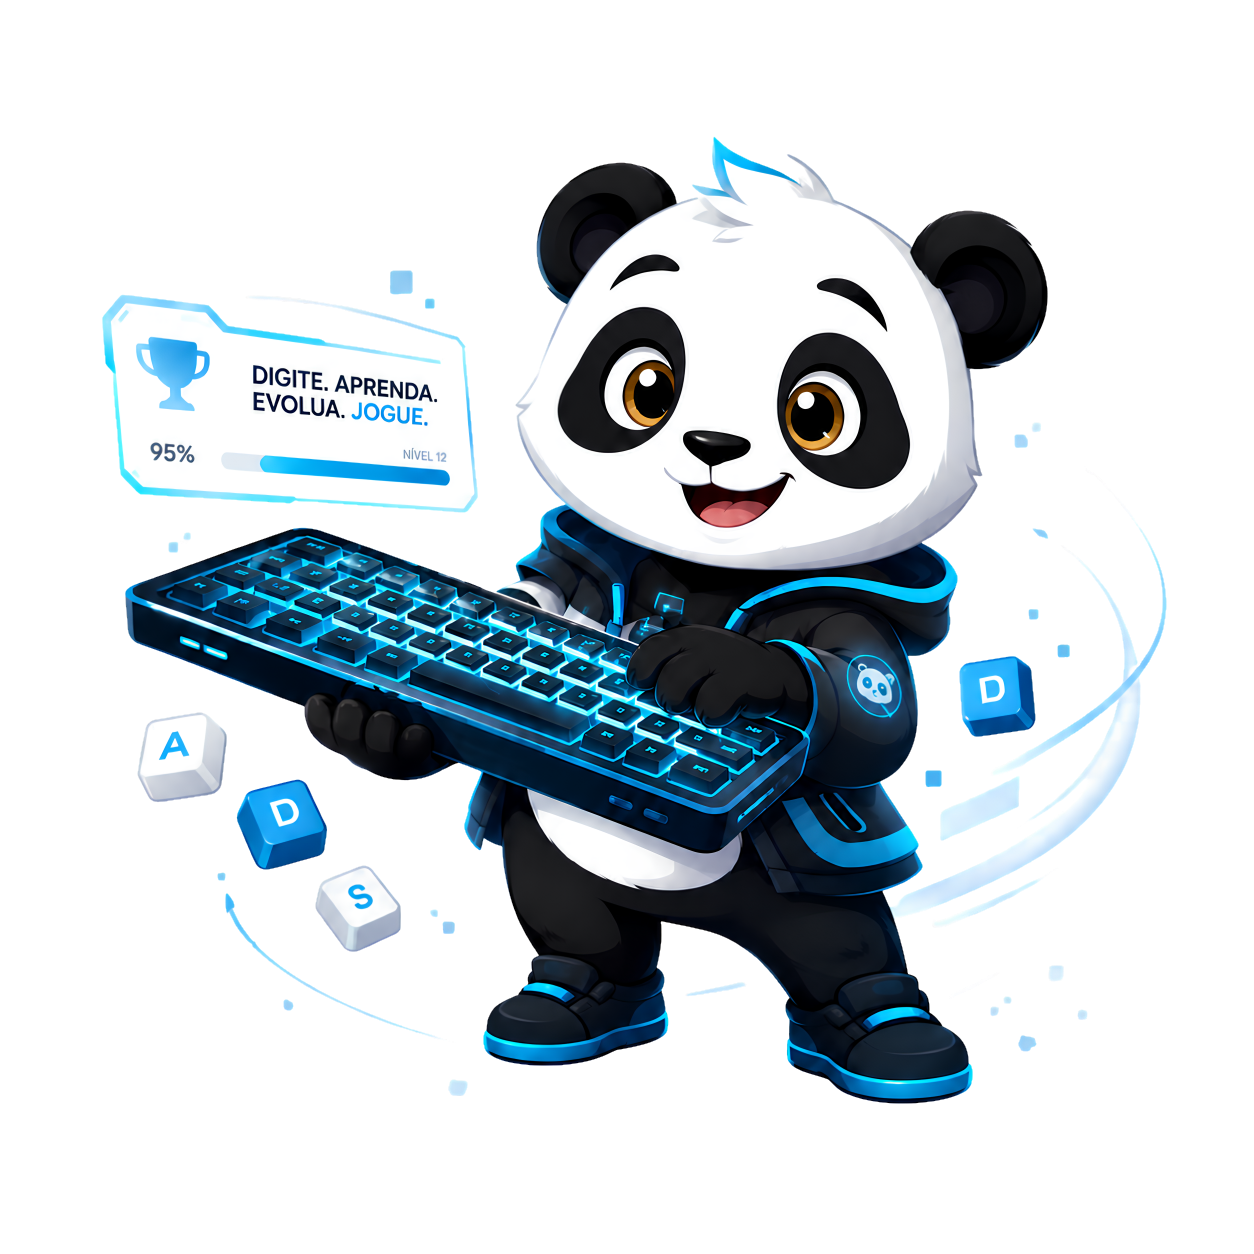
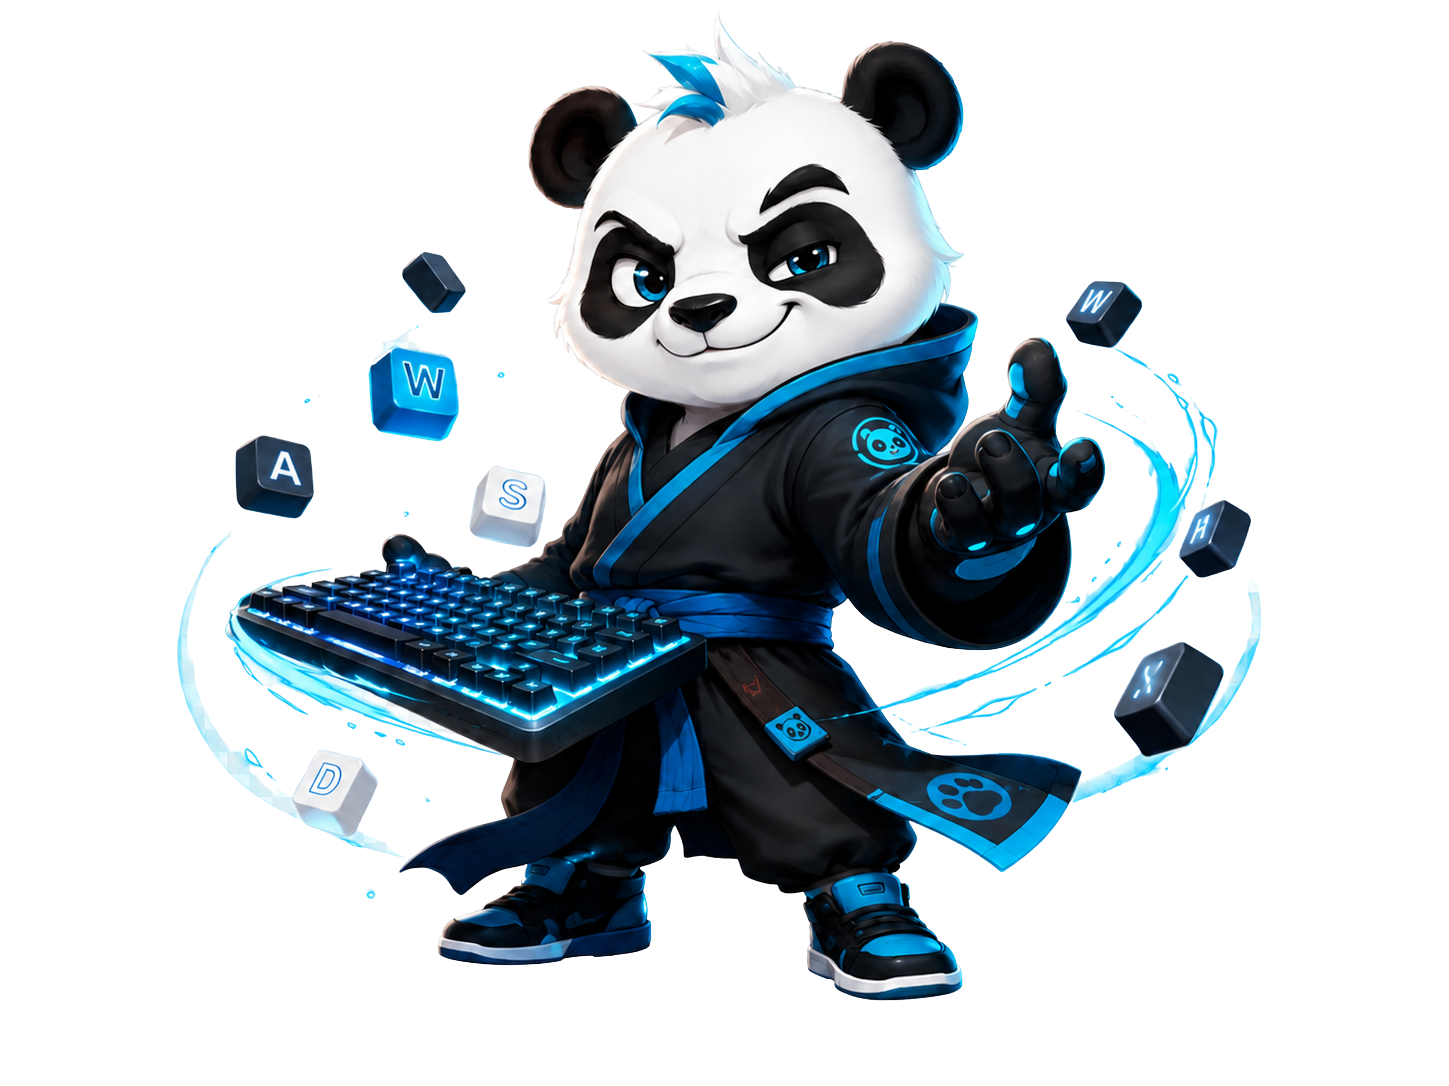
refactor: improve panda visual hierarchy on home and learn pages

diff --git a/panda-dojo-v2/src/pages/HomePage/HomePage.module.css b/panda-dojo-v2/src/pages/HomePage/HomePage.module.css
@@ -68,45 +68,54 @@
 
 .pandaCard {
   position: relative;
-  display: flex;
-  align-items: center;
-  min-height: 360px;
+  display: block;
+  min-height: clamp(420px, 38vw, 520px);
   overflow: hidden;
-  padding: var(--dojo-space-6);
+  padding: clamp(20px, 3vw, 32px);
   border: 1px solid var(--dojo-border-strong);
   border-radius: var(--dojo-radius-lg);
   background:
-    radial-gradient(circle at 82% 10%, rgba(124, 92, 255, 0.2), transparent 40%),
-    radial-gradient(circle at 14% 12%, rgba(20, 184, 212, 0.18), transparent 36%),
+    radial-gradient(circle at 68% 18%, rgba(124, 92, 255, 0.24), transparent 42%),
+    radial-gradient(circle at 28% 12%, rgba(20, 184, 212, 0.2), transparent 38%),
+    radial-gradient(ellipse at 74% 100%, rgba(217, 154, 23, 0.16), transparent 44%),
     var(--dojo-card-bg);
   box-shadow: var(--dojo-shadow-card);
 }
 
-/* Panda como personagem de apoio à direita, atrás do painel mas sem cobri-lo. */
+/* Panda como protagonista visual; o painel do jogador fica como apoio sobreposto. */
 .pandaImg {
   position: absolute;
-  right: 0;
-  bottom: 0;
+  right: clamp(-72px, -5vw, -28px);
+  bottom: clamp(-18px, -1.5vw, -8px);
   z-index: 0;
-  width: min(46%, 280px);
-  filter: drop-shadow(0 22px 24px rgba(11, 57, 84, 0.26));
+  width: min(88%, 560px);
+  max-height: 108%;
+  object-fit: contain;
+  filter:
+    drop-shadow(0 28px 32px rgba(11, 57, 84, 0.28))
+    drop-shadow(0 0 28px rgba(20, 184, 212, 0.16));
   pointer-events: none;
   user-select: none;
 }
 
 .pandaStatus {
-  position: relative;
+  position: absolute;
+  top: clamp(18px, 2.5vw, 30px);
+  left: clamp(18px, 2.5vw, 30px);
   z-index: 1;
   display: flex;
-  width: min(58%, 300px);
+  width: min(44%, 230px);
   flex-direction: column;
   align-items: flex-start;
-  gap: var(--dojo-space-3);
-  padding: var(--dojo-space-5);
+  gap: var(--dojo-space-2);
+  padding: clamp(14px, 2vw, 18px);
   border: 1px solid var(--dojo-border);
   border-radius: var(--dojo-radius-md);
-  background: color-mix(in srgb, var(--dojo-card-bg) 84%, transparent);
+  background: color-mix(in srgb, var(--dojo-card-bg) 76%, transparent);
   backdrop-filter: blur(12px);
+  box-shadow:
+    0 18px 42px rgba(11, 57, 84, 0.16),
+    inset 0 1px 0 rgba(255, 255, 255, 0.22);
 }
 
 .playerKicker {
@@ -121,7 +130,7 @@
 .pandaStatus .playerLevel {
   color: var(--dojo-text-strong);
   font-family: var(--font-title);
-  font-size: 1.9rem;
+  font-size: clamp(1.25rem, 2.2vw, 1.55rem);
   font-weight: 900;
   line-height: 1;
 }
@@ -636,15 +645,18 @@
   }
 
   .pandaCard {
-    min-height: 300px;
+    min-height: clamp(340px, 76vw, 430px);
   }
 
   .pandaStatus {
-    width: min(72%, 320px);
+    top: 16px;
+    left: 16px;
+    width: min(58%, 230px);
   }
 
   .pandaImg {
-    width: min(42%, 200px);
+    right: -58px;
+    width: min(96%, 420px);
   }
 
   .heroMetrics,

diff --git a/panda-dojo-v2/src/pages/LearnPage/LearnPage.module.css b/panda-dojo-v2/src/pages/LearnPage/LearnPage.module.css
@@ -130,22 +130,43 @@
 }
 
 .masterCard {
+  position: relative;
   display: flex;
-  min-height: 420px;
+  min-height: clamp(450px, 40vw, 540px);
   flex-direction: column;
-  gap: var(--dojo-space-5);
+  gap: var(--dojo-space-4);
   overflow: hidden;
-  padding: var(--dojo-space-6);
+  padding: clamp(22px, 3vw, 34px);
   border: 1px solid var(--dojo-border-strong);
   border-radius: var(--dojo-radius-lg);
   background:
-    radial-gradient(circle at 74% 24%, rgba(124, 92, 255, 0.18), transparent 34%),
-    radial-gradient(circle at 18% 8%, rgba(20, 184, 212, 0.18), transparent 34%),
+    radial-gradient(circle at 62% 30%, rgba(124, 92, 255, 0.2), transparent 36%),
+    radial-gradient(circle at 24% 12%, rgba(20, 184, 212, 0.18), transparent 34%),
+    radial-gradient(ellipse at 50% 72%, rgba(217, 154, 23, 0.12), transparent 44%),
     var(--dojo-card-bg);
   box-shadow: var(--dojo-shadow-card);
 }
 
+.masterCard::before {
+  content: '';
+  position: absolute;
+  left: 50%;
+  top: 52%;
+  width: min(78%, 360px);
+  aspect-ratio: 1;
+  border-radius: 50%;
+  background:
+    radial-gradient(circle, rgba(20, 184, 212, 0.18), transparent 58%),
+    radial-gradient(circle, rgba(124, 92, 255, 0.12), transparent 70%);
+  filter: blur(2px);
+  opacity: 0.9;
+  pointer-events: none;
+  transform: translate(-50%, -50%);
+}
+
 .masterHeader {
+  position: relative;
+  z-index: 1;
   display: flex;
   align-items: flex-start;
   justify-content: space-between;
@@ -162,13 +183,19 @@
 }
 
 .masterCard img {
-  width: min(70%, 260px);
-  margin: 0 auto;
-  filter: drop-shadow(0 18px 22px rgba(11, 57, 84, 0.24));
+  position: relative;
+  z-index: 1;
+  width: min(92%, 380px);
+  margin: clamp(-8px, -1vw, -4px) auto clamp(-2px, -0.5vw, 0px);
+  filter:
+    drop-shadow(0 24px 28px rgba(11, 57, 84, 0.28))
+    drop-shadow(0 0 24px rgba(20, 184, 212, 0.14));
   animation: pandaFloat 3.2s var(--dojo-ease) infinite alternate;
 }
 
 .masterCard p {
+  position: relative;
+  z-index: 1;
   color: var(--dojo-text-muted);
   font-size: 0.9rem;
   line-height: 1.5;
@@ -557,6 +584,11 @@
 
   .masterCard {
     min-height: 0;
+  }
+
+  .masterCard img {
+    width: min(86%, 320px);
+    margin-top: 0;
   }
 
   .benefitGrid,

diff --git a/panda-dojo-v2/src/pages/HomePage/components/HomeHero.tsx b/panda-dojo-v2/src/pages/HomePage/components/HomeHero.tsx
@@ -29,7 +29,7 @@ export function HomeHero({ profile }: Props) {
         </div>
       </div>
 
-      <aside className={styles.heroVisual} aria-label="Resumo do jogador">
+      <aside className={styles.heroVisual} aria-label="Mestre Panda e resumo do jogador">
         <div className={styles.pandaCard}>
           <div className={styles.pandaStatus}>
             <span className={styles.playerKicker}>Painel do jogador</span>